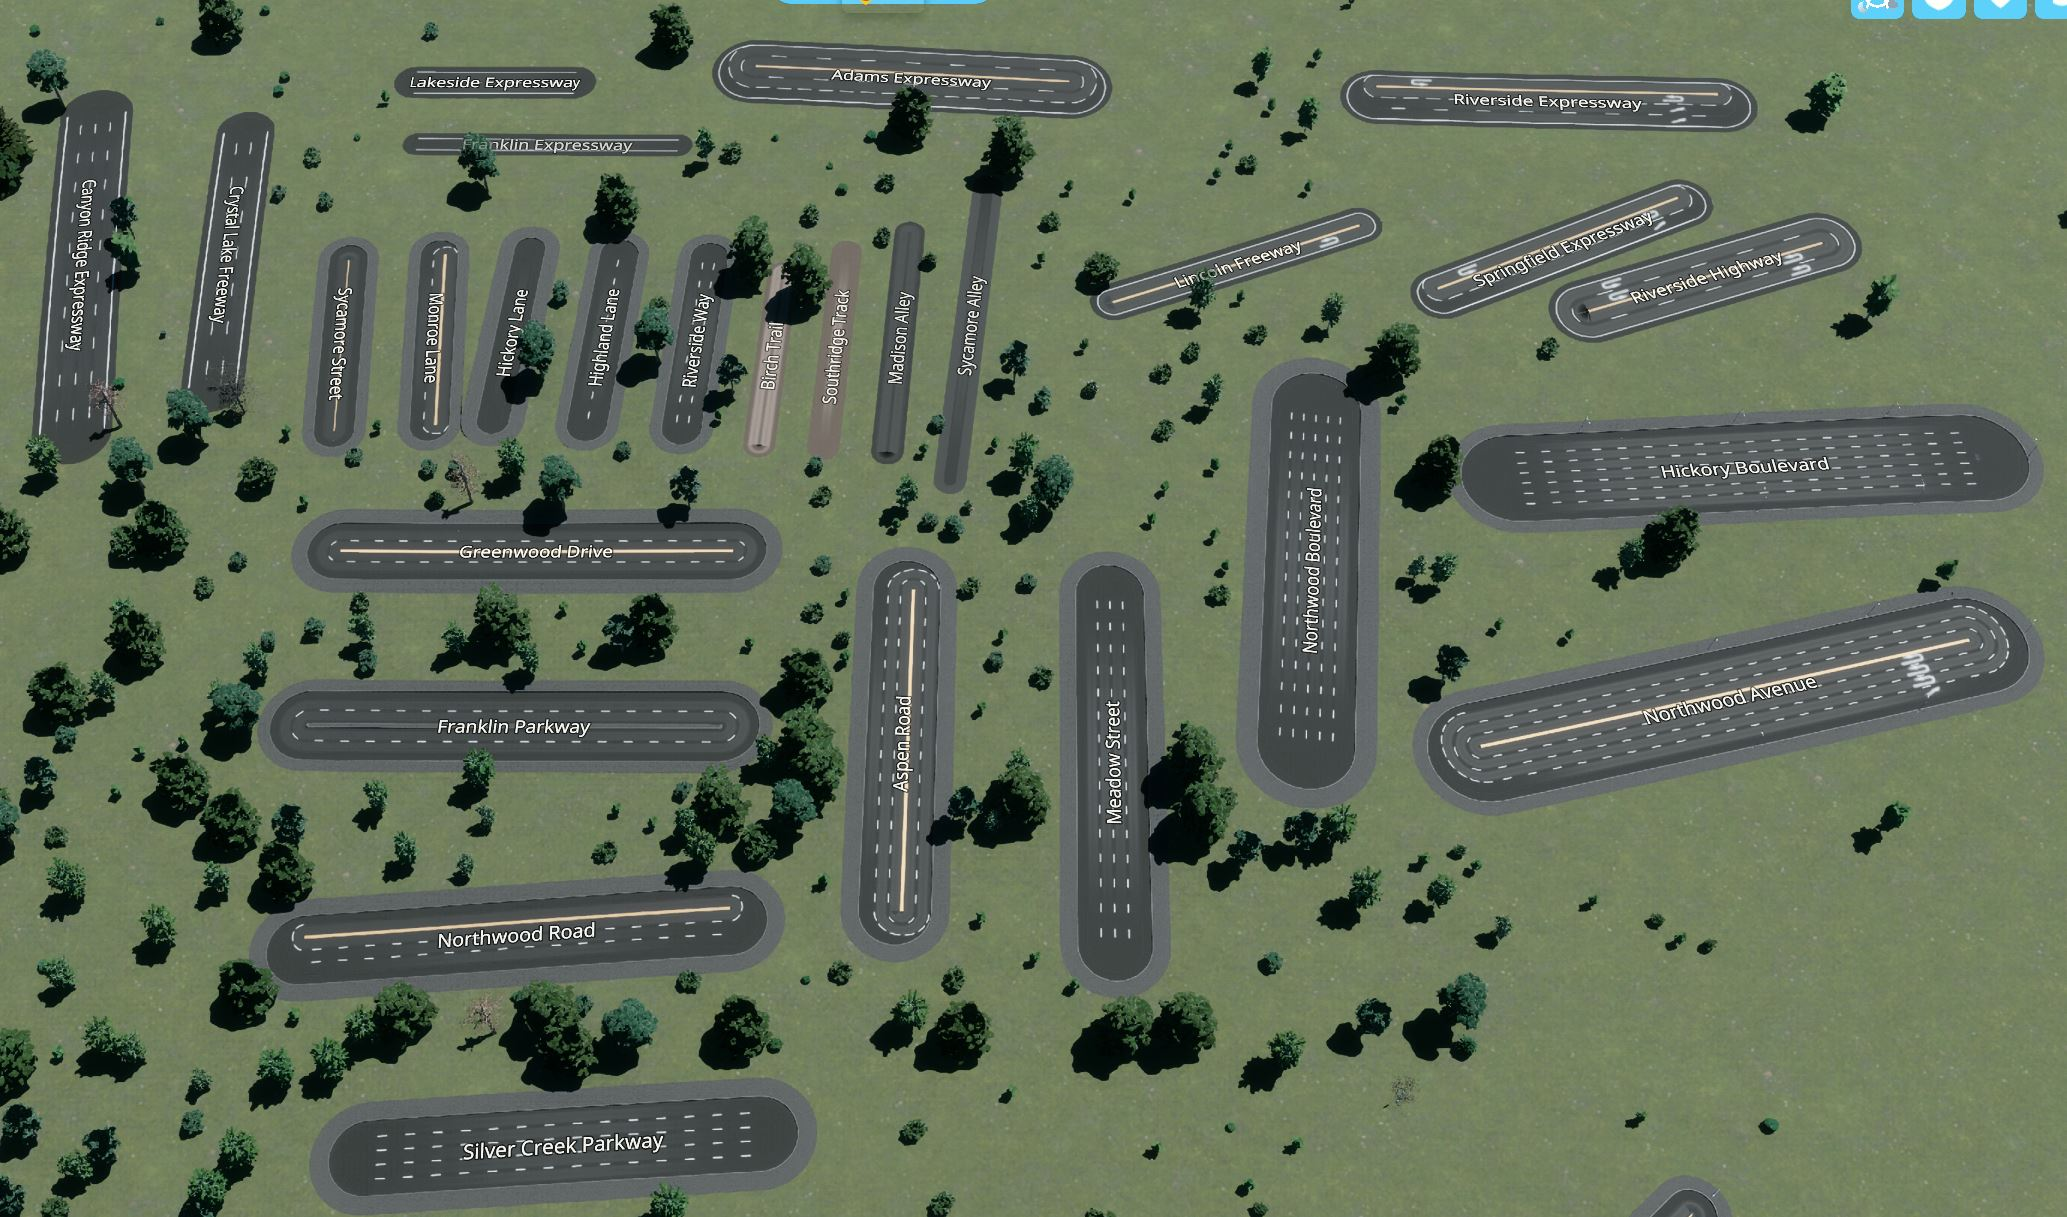
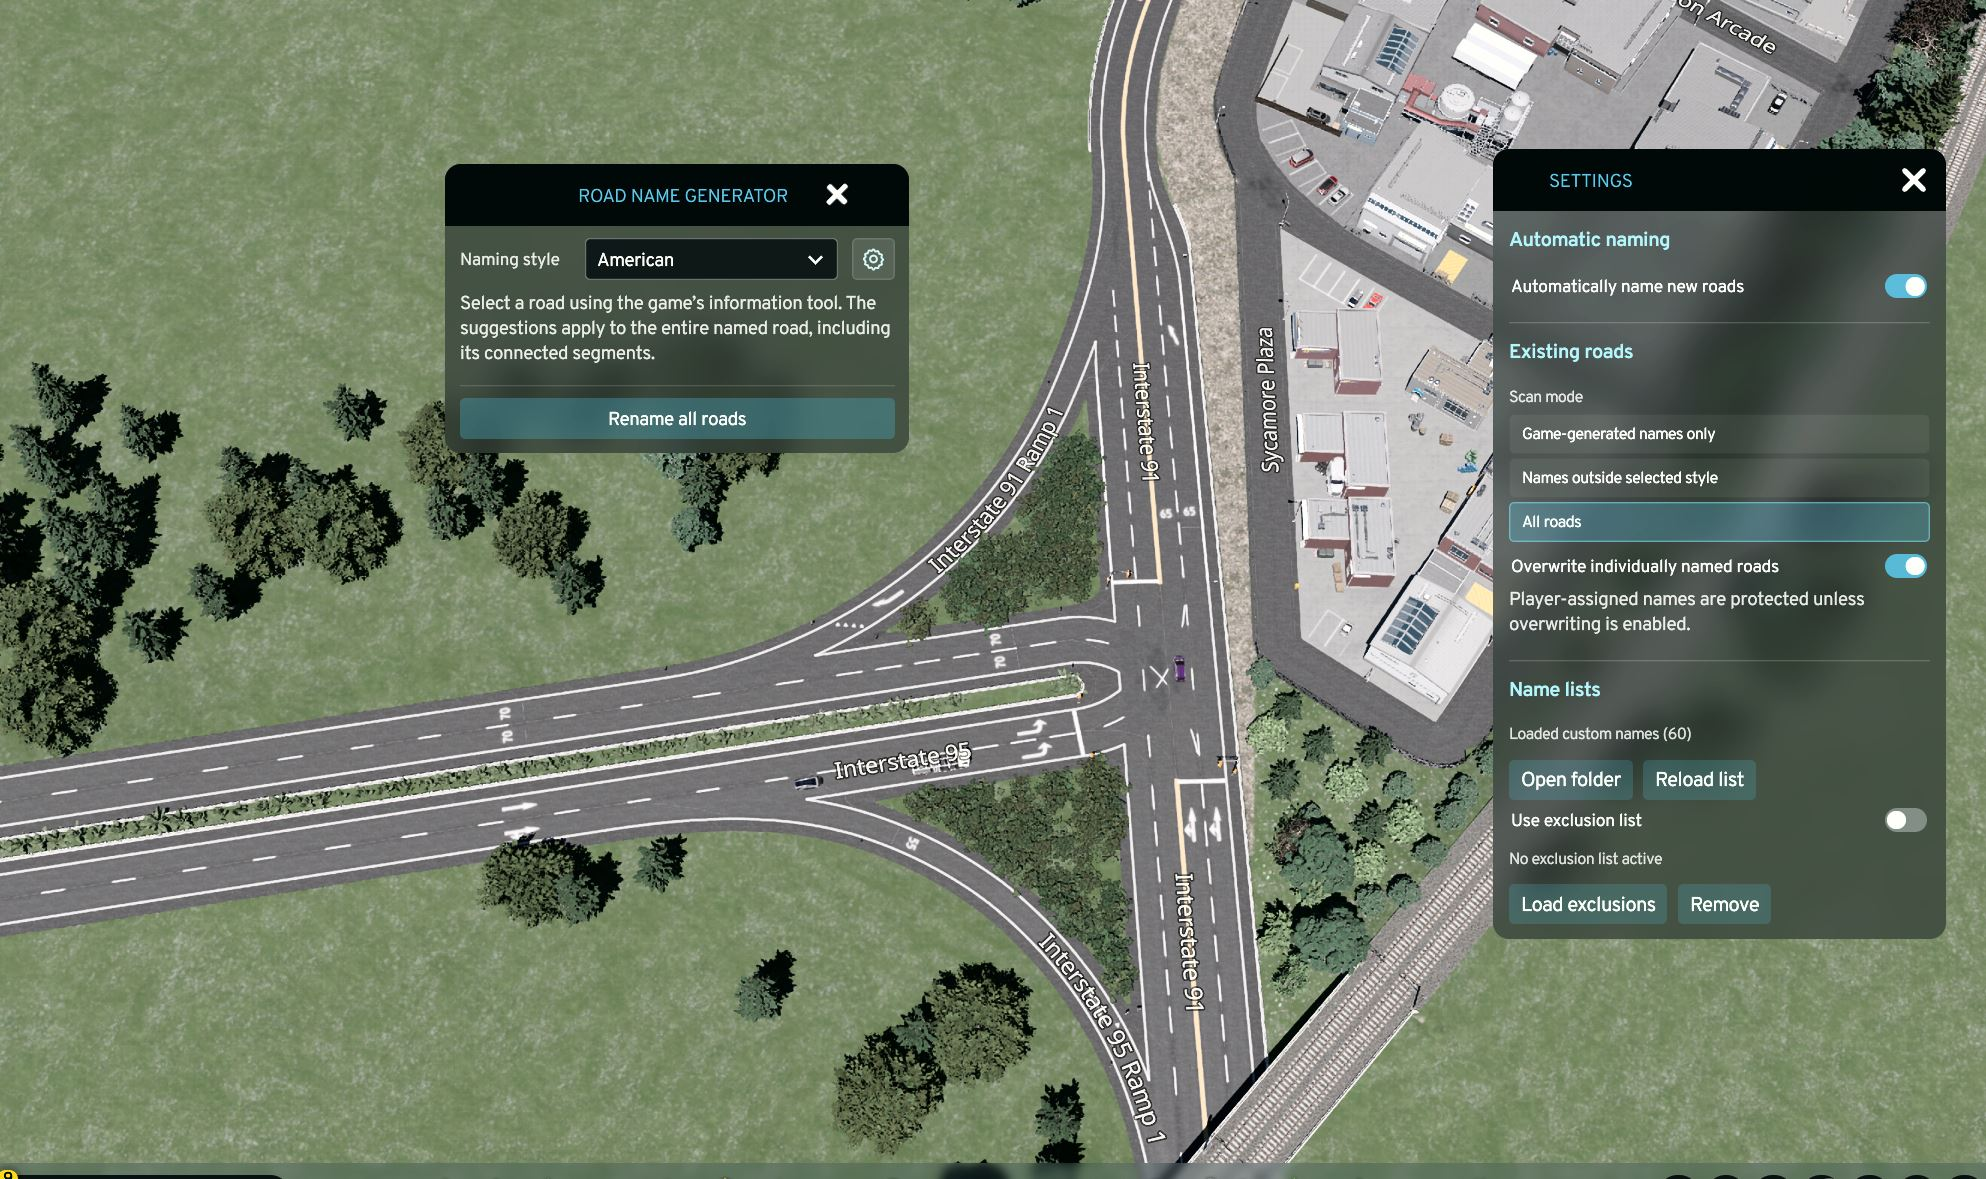
bugfix rampe

diff --git a/RoadNameGenerator/Systems/RoadNamingSystem.Ramps.cs b/RoadNameGenerator/Systems/RoadNamingSystem.Ramps.cs
@@ -20,6 +20,7 @@ namespace RoadNameGenerator.Systems
         private int m_PendingRampCursor;
         private readonly HashSet<Entity> m_AmbiguousRampsLogged = new();
         private readonly Dictionary<Entity, string> m_LastRampLinkLog = new();
+        private const float MaxRampLengthMeters = 1000f;
 
         private readonly struct HighwayRampConnection
         {
@@ -48,7 +49,7 @@ namespace RoadNameGenerator.Systems
 
             string lower = prefab.ToLowerInvariant();
             if (ContainsAny(lower, "ramp", "slip road", "sliproad", "auffahrt", "abfahrt"))
-                return true;
+                return IsWithinRampLengthLimit(aggregate);
 
             if (DetectRoadCategory(aggregate) != RoadCategory.Highway)
                 return false;
@@ -56,12 +57,61 @@ namespace RoadNameGenerator.Systems
             bool oneLane = ContainsAny(lower, "1 lane", "1-lane", "one lane",
                 "one-lane", "1lane", "1l1w", "1l 1w", "single lane", "single-lane");
             if (oneLane)
-                return true;
+                return IsWithinRampLengthLimit(aggregate);
 
             bool twoLanes = ContainsAny(lower, "2 lanes", "2 lane", "2-lane", "2lane");
             bool oneWay = ContainsAny(lower, "one way", "one-way", "oneway", "1w",
                 "freeway", "expressway");
-            return twoLanes && oneWay && IsTwoLaneMotorwaySideBranch(aggregate);
+            return twoLanes && oneWay && IsWithinRampLengthLimit(aggregate);
+        }
+
+        private bool IsWithinRampLengthLimit(Entity aggregate)
+        {
+            float length = GetRoadLengthMeters(aggregate, MaxRampLengthMeters);
+            return length > 0f && length <= MaxRampLengthMeters;
+        }
+
+        private float GetRoadLengthMeters(Entity aggregate, float stopAfter = float.MaxValue)
+        {
+            if (!EntityManager.HasBuffer<AggregateElement>(aggregate))
+                return 0f;
+
+            // Measure the entire named road, not just its first segment or
+            // the distance between its endpoints (which misses curved ramps).
+            float length = 0f;
+            var seen = new HashSet<Entity>();
+            var elements = EntityManager.GetBuffer<AggregateElement>(aggregate, true);
+            for (int i = 0; i < elements.Length; i++)
+            {
+                Entity roadEdge = elements[i].m_Edge;
+                if (!IsUsableEntity(roadEdge) || !seen.Add(roadEdge))
+                    continue;
+                if (!EntityManager.HasComponent<Road>(roadEdge))
+                    continue;
+                if (!EntityManager.HasComponent<Curve>(roadEdge))
+                    return 0f; // Incomplete geometry cannot prove a short ramp.
+
+                var bezier = EntityManager.GetComponentData<Curve>(roadEdge).m_Bezier;
+                float3 previous = bezier.a;
+                // Approximate each cubic curve in world metres. This also
+                // includes elevation and avoids depending on extra game APIs.
+                for (int step = 1; step <= 32; step++)
+                {
+                    float t = step / 32f;
+                    float u = 1f - t;
+                    float3 point = u * u * u * bezier.a +
+                        3f * u * u * t * bezier.b +
+                        3f * u * t * t * bezier.c + t * t * t * bezier.d;
+                    float segmentLength = math.length(point - previous);
+                    if (float.IsNaN(segmentLength) || float.IsInfinity(segmentLength))
+                        return 0f;
+                    length += segmentLength;
+                    if (length > stopAfter)
+                        return length;
+                    previous = point;
+                }
+            }
+            return length;
         }
 
         private bool TryGetOutwardTangent(Entity roadEdge, Entity node, out float3 tangent)
@@ -97,95 +147,6 @@ namespace RoadNameGenerator.Systems
             return true;
         }
 
-
-        private bool IsTwoLaneMotorwaySideBranch(Entity aggregate)
-        {
-            if (!EntityManager.HasBuffer<AggregateElement>(aggregate))
-                return false;
-
-            var parts = EntityManager.GetBuffer<AggregateElement>(aggregate, true);
-            for (int p = 0; p < parts.Length; p++)
-            {
-                Entity candidate = parts[p].m_Edge;
-                if (!IsUsableEntity(candidate) ||
-                    !EntityManager.HasComponent<Edge>(candidate))
-                    continue;
-
-                Edge edge = EntityManager.GetComponentData<Edge>(candidate);
-                Entity[] nodes = { edge.m_Start, edge.m_End };
-                foreach (Entity node in nodes)
-                {
-                    if (!IsUsableEntity(node) ||
-                        !EntityManager.HasBuffer<ConnectedEdge>(node) ||
-                        !TryGetOutwardTangent(candidate, node, out float3 candidateVector))
-                        continue;
-
-                    var directions = new List<(Entity Road, float3 Tangent)>(4);
-                    var seen = new HashSet<Entity>();
-                    var adjacent = EntityManager.GetBuffer<ConnectedEdge>(node, true);
-                    bool selfContinuation = false;
-
-                    for (int i = 0; i < adjacent.Length; i++)
-                    {
-                        Entity otherEdge = adjacent[i].m_Edge;
-                        if (otherEdge == candidate || !IsUsableEntity(otherEdge) ||
-                            !seen.Add(otherEdge) ||
-                            !EntityManager.HasComponent<Road>(otherEdge) ||
-                            !EntityManager.HasComponent<Aggregated>(otherEdge))
-                            continue;
-
-                        Entity otherAggregate =
-                            EntityManager.GetComponentData<Aggregated>(otherEdge).m_Aggregate;
-                        if (!IsUsableEntity(otherAggregate) ||
-                            !IsRoadAggregate(otherAggregate) ||
-                            DetectRoadCategory(otherAggregate) != RoadCategory.Highway)
-                            continue;
-
-                        if (otherAggregate == aggregate)
-                        {
-                            selfContinuation = true;
-                            break;
-                        }
-
-                        if (TryGetOutwardTangent(otherEdge, node, out float3 vector))
-                            directions.Add((otherAggregate, vector));
-                    }
-
-
-                    if (selfContinuation || directions.Count < 2)
-                        continue;
-
-                    for (int i = 0; i < directions.Count; i++)
-                    {
-                        for (int j = i + 1; j < directions.Count; j++)
-                        {
-                            float straight = -math.dot(
-                                directions[i].Tangent, directions[j].Tangent);
-                            float candidatePairStraightness = math.max(
-                                -math.dot(candidateVector, directions[i].Tangent),
-                                -math.dot(candidateVector, directions[j].Tangent));
-
-                            bool sameMainlineAggregate =
-                                directions[i].Road == directions[j].Road;
-
-                            if (sameMainlineAggregate)
-                            {
-                                if (straight > 0.65f &&
-                                    straight > candidatePairStraightness + 0.005f)
-                                    return true;
-                            }
-                            else if (straight > 0.86f &&
-                                     straight > candidatePairStraightness + 0.10f)
-                            {
-                                return true;
-                            }
-                        }
-                    }
-                }
-            }
-
-            return false;
-        }
 
         private IEnumerable<(Entity Edge, Entity Junction)> GetAdjacentRoadEdges(Entity aggregate)
         {
@@ -359,9 +320,18 @@ namespace RoadNameGenerator.Systems
             if (connections.Count == 0)
                 return false;
 
+            // Read each possible parent only once, outside the sort comparator.
+            // Existing ramps can connect two named highways. When traffic flow
+            // is unavailable, prefer the longer highway instead of abandoning
+            // ramp naming merely because the two highway names differ.
+            var highwayLengths = new Dictionary<Entity, float>();
+            foreach (HighwayRampConnection connection in connections)
+                if (!highwayLengths.ContainsKey(connection.Highway))
+                    highwayLengths[connection.Highway] = GetRoadLengthMeters(connection.Highway);
+
             // If the ramp touches more than one motorway, prefer the highway
             // the traffic LEAVES (exit) instead of the one it enters. We only
-            // fall back to distance if lane direction cannot be determined.
+            // fall back to graph distance and highway length when flow is unknown.
             connections.Sort((a, b) =>
             {
                 RampDirection flowA = GetDirectionAtHighway(a.RampEdge, a.Junction);
@@ -373,7 +343,9 @@ namespace RoadNameGenerator.Systems
                 int ranked = rankA.CompareTo(rankB);
                 if (ranked != 0) return ranked;
                 int depth = a.Depth.CompareTo(b.Depth);
-                return depth != 0 ? depth : a.Highway.Index.CompareTo(b.Highway.Index);
+                if (depth != 0) return depth;
+                int length = highwayLengths[b.Highway].CompareTo(highwayLengths[a.Highway]);
+                return length != 0 ? length : a.Highway.Index.CompareTo(b.Highway.Index);
             });
 
             HighwayRampConnection selected = connections[0];
@@ -384,27 +356,6 @@ namespace RoadNameGenerator.Systems
             selectedName = selectedName.Trim();
             RampDirection selectedDirection =
                 GetDirectionAtHighway(selected.RampEdge, selected.Junction);
-
-            // Multiple equidistant highway names without usable directional
-            // evidence are ambiguous. Do not attach a ramp to a random road.
-            if (selectedDirection == RampDirection.Unknown)
-            {
-                foreach (HighwayRampConnection connection in connections)
-                {
-                    if (connection.Depth != selected.Depth)
-                        continue;
-                    string otherName = m_NameSystem.GetRenderedLabelName(connection.Highway);
-                    if (!string.IsNullOrWhiteSpace(otherName) &&
-                        !string.Equals(otherName.Trim(), selectedName,
-                            StringComparison.OrdinalIgnoreCase))
-                    {
-                        if (m_AmbiguousRampsLogged.Add(road))
-                            Mod.LogDetailed($"Ramp {road.Index}: conflicting motorway connections; " +
-                                "waiting for an unambiguous parent instead of assigning the wrong name.");
-                        return false;
-                    }
-                }
-            }
 
             m_AmbiguousRampsLogged.Remove(road);
             highwayName = selectedName;
@@ -420,7 +371,9 @@ namespace RoadNameGenerator.Systems
                 m_LastRampLinkLog[road] = state;
                 Mod.LogDetailed($"Ramp {road.Index}: linked to motorway " +
                     $"{selected.Highway.Index} (\"{highwayName}\"), " +
-                    $"direction: {direction}, group segments: {group.Count}.");
+                    $"direction: {direction}, group segments: {group.Count}, " +
+                    $"parent length: {highwayLengths[selected.Highway]:F0} m, " +
+                    $"selection: {(direction == RampDirection.Unknown ? "connection depth / length" : "traffic direction")}.");
             }
             return true;
         }
@@ -708,3 +661,4 @@ namespace RoadNameGenerator.Systems
         }
     }
 }
+

diff --git a/RoadNameGenerator/Systems/RoadNamingSystem.Suggestions.cs b/RoadNameGenerator/Systems/RoadNamingSystem.Suggestions.cs
@@ -53,10 +53,9 @@ namespace RoadNameGenerator.Systems
 
             HashSet<string> usedNames = GetCurrentRoadNames();
 
-            if (IsHighwayRampCandidate(road))
+            if (IsHighwayRampCandidate(road) &&
+                TryGetRampParent(road, out string motorway, out _, out _))
             {
-                if (!TryGetRampParent(road, out string motorway, out _, out _))
-                    return suggestions; // Not connected to a motorway yet.
                 NamingStyle rampStyle = Mod.Settings?.SelectedNamingStyle ?? NamingStyle.American;
                 string label = GetRampLabel(rampStyle, RampDirection.Unknown);
                 for (int number = 1; number <= 4096 && suggestions.Count < 5; number++)
@@ -67,8 +66,13 @@ namespace RoadNameGenerator.Systems
                         !RoadNameExclusionList.IsExcluded(candidate))
                         suggestions.Add(candidate);
                 }
-                return suggestions;
+                if (suggestions.Count > 0)
+                    return suggestions;
             }
+            // An unresolved motorway connection is not an exhausted name list.
+            // Offer ordinary road names for manual selection, just as the
+            // requested existing-road scan does for unresolved ramps. Also
+            // use this fallback when every numbered ramp suggestion is blocked.
             IRoadNameGenerator generator = CreatePreviewGenerator(
                 Mod.Settings?.SelectedNamingStyle ?? NamingStyle.American);
             foreach (string name in usedNames)
@@ -127,3 +131,4 @@ namespace RoadNameGenerator.Systems
         };
     }
 }
+

diff --git a/RoadNameGenerator/Systems/RoadNamingSystem.cs b/RoadNameGenerator/Systems/RoadNamingSystem.cs
@@ -1010,8 +1010,13 @@ namespace RoadNameGenerator.Systems
                     {
                         if (!TryCreateRampName(aggregateEntity, out newName))
                         {
-                            preservedRoadCount++;
-                            continue;
+                            // This scan was explicitly requested and the name
+                            // protection check above already granted permission.
+                            // Missing/ambiguous motorway links must not silently
+                            // defeat "All roads" or custom-name overwriting.
+                            newName = nameGenerator.Generate(category);
+                            Mod.LogDetailed($"Ramp {aggregateEntity.Index}: no unambiguous motorway name; " +
+                                "using a generated road name for the requested existing-road scan.");
                         }
                     }
                     else
@@ -1403,3 +1408,4 @@ namespace RoadNameGenerator.Systems
         }
     }
 }
+
